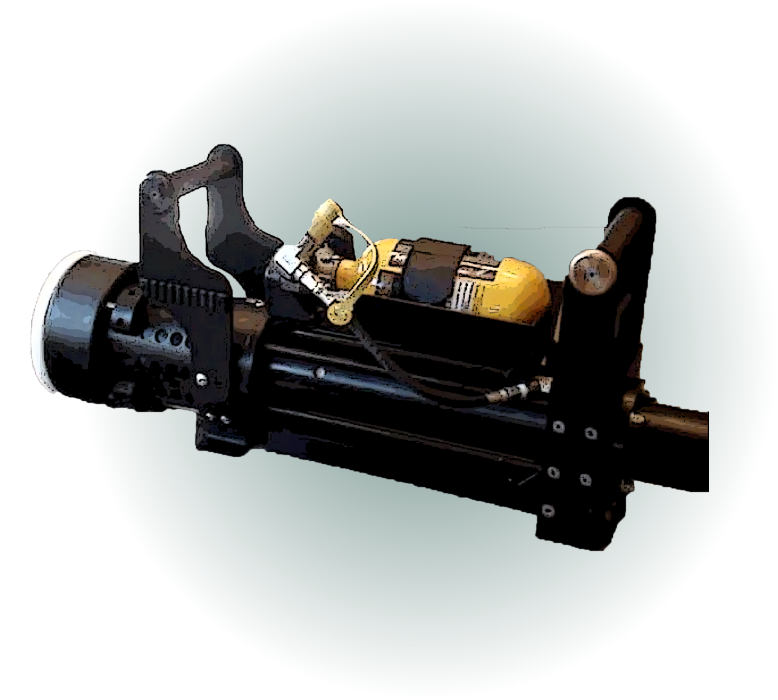
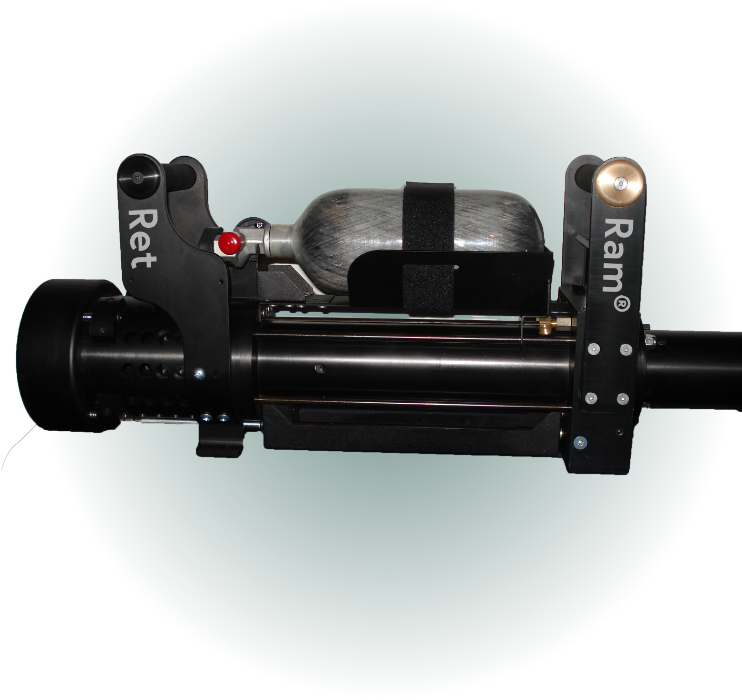
Added new image and grammar corrections

Changed region(s): [[0.0, 0.21, 1.0, 0.81]]

diff --git a/src/widgets/RetRam/Development/Development.js b/src/widgets/RetRam/Development/Development.js
@@ -10,99 +10,99 @@ const photos = [
       "https://res.cloudinary.com/wow-your-client/image/upload/e_improve,w_300,h_600,c_thumb,g_auto/v1579631525/davidkrumreiinventions/PressureTankunattached.jpg",
     width: 3,
     height: 6,
-    title: "Unattached RET RAM® Pressure Tank"
+    title: "Unattached RET RAM® Pressure Tank",
   },
   {
     src:
       "https://res.cloudinary.com/wow-your-client/image/upload/w_1000,ar_1:1,c_fill,g_auto,e_art:hokusai/v1579631525/davidkrumreiinventions/InTheLab.jpg",
     width: 1,
     height: 1,
-    title: "RET RAM® research development at Milwaukee School of Engineering."
+    title: "RET RAM® research development at Milwaukee School of Engineering.",
   },
   {
     src:
       "https://res.cloudinary.com/wow-your-client/image/upload/v1579631525/davidkrumreiinventions/BarrellshotBest.jpg",
     width: 4,
     height: 3,
-    title: "Barrel View of RET RAM®"
+    title: "Barrel View of RET RAM®",
   },
   {
     src:
       "https://res.cloudinary.com/wow-your-client/image/upload/v1579631524/davidkrumreiinventions/PressureMeterInLab.png",
     width: 5,
     height: 4,
-    title: "RET RAM® on test stand at Milwaukee School of Engineering"
+    title: "RET RAM® on test stand at Milwaukee School of Engineering",
   },
   {
     src:
       "https://res.cloudinary.com/wow-your-client/image/upload/w_1000,ar_1:1,c_fill,g_auto,e_sharpen/v1579631525/davidkrumreiinventions/Barrellshot2.jpg",
     width: 1,
     height: 1,
-    title: "Business end of RET RAM®"
+    title: "Business end of RET RAM®",
   },
   {
     src:
       "https://res.cloudinary.com/wow-your-client/image/upload/v1581294307/davidkrumreiinventions/InnerBearingsConstruction.jpg",
     width: 800,
     height: 562,
-    title: "Early RET RAM® prototype under construction"
+    title: "Early RET RAM® prototype under construction",
   },
   {
     src:
       "https://res.cloudinary.com/wow-your-client/image/upload/w_1000,ar_1:1,c_fill,g_auto,e_art:hokusai/v1579631525/davidkrumreiinventions/Ramhead_compared_to_quarter.jpg",
     width: 1,
     height: 1,
-    title: "High impact tool-steel battering face in reference to quarter."
+    title: "High impact tool-steel battering face in reference to quarter.",
   },
   {
     src:
       "https://res.cloudinary.com/wow-your-client/image/upload/v1581294306/davidkrumreiinventions/EarlyRetRamPrototypeUnderConstruction.jpg",
     width: 800,
     height: 683,
-    title: "RET RAM® computer analytics at Milwaukee School of Engineering"
+    title: "RET RAM® computer analytics at Milwaukee School of Engineering",
   },
   {
     src:
       "https://res.cloudinary.com/wow-your-client/image/upload/c_scale,w_900/v1581299691/davidkrumreiinventions/Inner_Part_of_Ret_RAM.jpg",
     width: 900,
     height: 535,
-    title: "Early prototype development on workbench"
+    title: "Early prototype development on workbench",
   },
   {
     src:
-      "https://res.cloudinary.com/wow-your-client/image/upload/c_scale,w_900/v1581299543/davidkrumreiinventions/Prototype%20of%20RET%20RAM.jpg",
+      "https://res.cloudinary.com/wow-your-client/image/upload/c_scale,w_900/v1591558900/davidkrumreiinventions/ram_image_2x.png",
     width: 900,
-    height: 675,
-    title: "RET RAM® Generation 1"
+    height: 810,
+    title: "RET RAM® Generation 1",
   },
   {
     src:
       "https://res.cloudinary.com/wow-your-client/image/upload/c_scale,w_900/v1581299543/davidkrumreiinventions/RET%20RAM%20on%20test%20stand.jpg",
     width: 900,
     height: 675,
-    title: "RET RAM® at Milwaukee School of Engineering test stands."
+    title: "RET RAM® at Milwaukee School of Engineering test stands.",
   },
   {
     src:
       "https://res.cloudinary.com/wow-your-client/image/upload/c_scale,w_900/v1581294307/davidkrumreiinventions/FailSafeDeadmanHandle.jpg",
     width: 900,
     height: 675,
-    title: "RET RAM® generation 1 manifold and deadman handle."
+    title: "RET RAM® generation 1 manifold and deadman handle.",
   },
   {
     src:
       "https://res.cloudinary.com/wow-your-client/image/upload/c_scale,w_900/v1581299542/davidkrumreiinventions/Shop%20with%20many%20parts.jpg",
     width: 900,
     height: 675,
-    title: "Milwaukee School of Engineering Fluid Power institute test stand."
+    title: "Milwaukee School of Engineering Fluid Power institute test stand.",
   },
   {
     src:
       "https://res.cloudinary.com/wow-your-client/image/upload/c_scale,w_900/v1581302063/davidkrumreiinventions/Screen_Shot_2020-02-09_at_21.26.01.png",
     width: 900,
     height: 623,
-    title: "Computer Performance testing at Milwaukee School of Engineering."
-  }
+    title: "Computer Performance testing at Milwaukee School of Engineering.",
+  },
 ];
 
 const Development = () => {
@@ -130,9 +130,9 @@ const Development = () => {
           <Modal onClose={closeLightbox}>
             <Carousel
               currentIndex={currentImage}
-              views={photos.map(photo => ({
+              views={photos.map((photo) => ({
                 ...photo,
-                caption: photo.title
+                caption: photo.title,
               }))}
             />
           </Modal>

diff --git a/src/widgets/RetRam/History/History.js b/src/widgets/RetRam/History/History.js
@@ -19,7 +19,7 @@ const History = () => {
               ranged in age, the older children were capable of caring for the
               younger. All the children perished in the home behind security
               bars on the ground floor doors and windows. Because of the
-              security bars the children were unable to flee the burning home
+              security bars the children were unable to escape the burning home
               and firefighters were unable to timely gain access to the home to
               rescue the trapped children. Those tragic and preventable deaths
               offered the impetus for the development of the RET RAM® Battering
@@ -32,17 +32,18 @@ const History = () => {
               FIRST GENERATION RET RAM®
             </h3>
             <p className="paragraph">
-              The first commercial RET RAM® was developed a number of years with
-              the help of Adrian Tools, Adrian MI, Ladysmith Machining,
-              Ladysmith, WI and Vector Engineering of Chaska, MN. Testing of the
-              ram was done at the Milwaukee School of Engineering’s Fluid Power
-              Institute. Formal documentation of the ram’s performance was
-              published in an academic paper developed by Thomas Labus and
-              inventor David Krumrei. This paper was formally presented at the
-              2011 International Fluid Power Institute Exposition in Las Vegas,
-              USA. The RET RAM® testing results were also presented to the
-              Department of Homeland Security at a meeting at the Milwaukee
-              School of Engineering’s Fluid Power Institute in 2011.
+              The first commercial RET RAM® was first developed over several
+              years with the help of Adrian Tools, Adrian MI, Ladysmith
+              Machining, Ladysmith, WI and Vector Engineering of Chaska, MN.
+              Testing of the ram was done at the Milwaukee School of
+              Engineering’s Fluid Power Institute. Formal documentation of the
+              ram’s performance was published in an academic paper developed by
+              Thomas Labus and inventor David Krumrei. This paper was formally
+              presented at the 2011 International Fluid Power Institute
+              Exposition in Las Vegas, USA. The RET RAM® testing results were
+              also presented to the Department of Homeland Security at a meeting
+              at the Milwaukee School of Engineering’s Fluid Power Institute in
+              2011.
             </p>
           </div>
         </div>

diff --git a/src/widgets/Home/Home.style.scss b/src/widgets/Home/Home.style.scss
@@ -21,7 +21,7 @@
   .jumbo-text {
     text-align: center;
     color: var(--off-white-color);
-    font-size: 3.3vw;
+    font-size: 2rem;
     line-height: 8vw;
     padding: 1.5rem 1rem;
 
@@ -38,12 +38,9 @@
     justify-content: center;
 
     .image {
-      height: 60vh;
+      max-height: 67vh;
+      max-width: 100%;
       margin-top: -3rem;
-      background-image: url("../../assets/ram_image.png");
-      background-position: center; /* Center the image */
-      background-repeat: no-repeat; /* Do not repeat the image */
-      background-size: contain;
     }
   }
 
@@ -63,7 +60,7 @@
       margin-left: 4%;
       text-align: left;
       color: var(--off-white-color);
-      font-size: 2vw;
+      font-size: 2rem;
       line-height: 6.5vw;
       padding-bottom: 4rem;
 
@@ -85,13 +82,9 @@
       margin-right: 8%;
 
       .image {
-        width: 100%;
-        height: 60vh;
+        max-height: 67vh;
+        max-width: 100%;
         margin-top: -3rem;
-        background-image: url("../../assets/ram_image.png");
-        background-position: center; /* Center the image */
-        background-repeat: no-repeat; /* Do not repeat the image */
-        background-size: contain;
       }
     }
   }

diff --git a/src/widgets/Home/Home.js b/src/widgets/Home/Home.js
@@ -11,8 +11,11 @@ const Home = () => {
       <div className="main">
         <div className="jumbo-text">
           <div className="jumbo-text-normal">
-            <span style={{ fontWeight: "bold" }}>RET RAM&reg;</span> Blasts
-            through barriers — Developed For
+            <span style={{ fontWeight: "bold" }}>RET RAM&reg;</span> — Blasts
+            through barriers
+          </div>
+          <div style={{ fontSize: 20, paddingTop: "1.5rem", lineHeight: 2 }}>
+            DEVELOPED FOR
           </div>
 
           <div className="jumbo-text-bold">Firefighters & First Responders</div>
@@ -20,7 +23,11 @@ const Home = () => {
           <div className="jumbo-text-bold">Military</div>
         </div>
         <div className="jumbo-image">
-          <div className="image"></div>
+          <img
+            className="image"
+            src="https://res.cloudinary.com/wow-your-client/image/upload/v1591558893/davidkrumreiinventions/ram_image.png"
+            alt="Ret Ram Side View"
+          />
         </div>
       </div>
 
